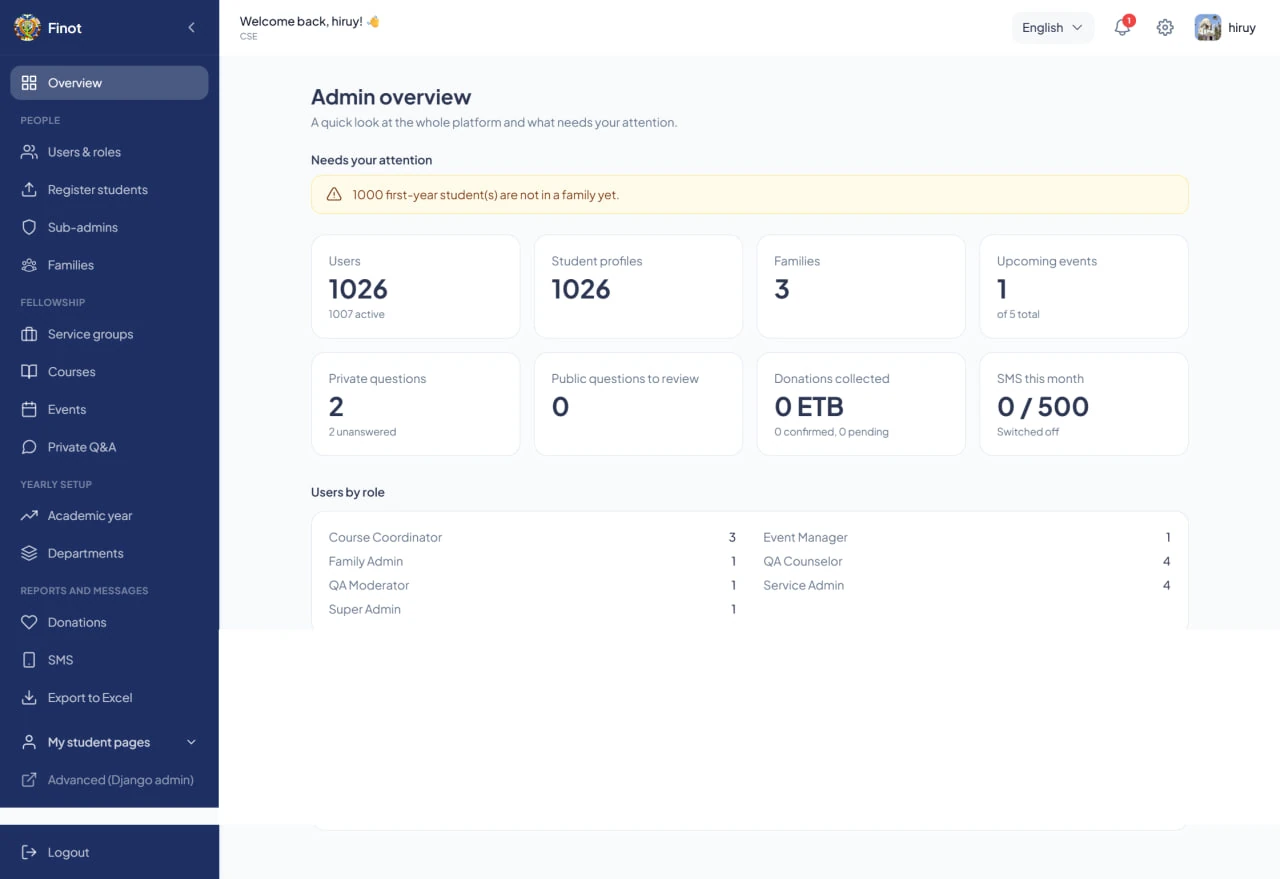
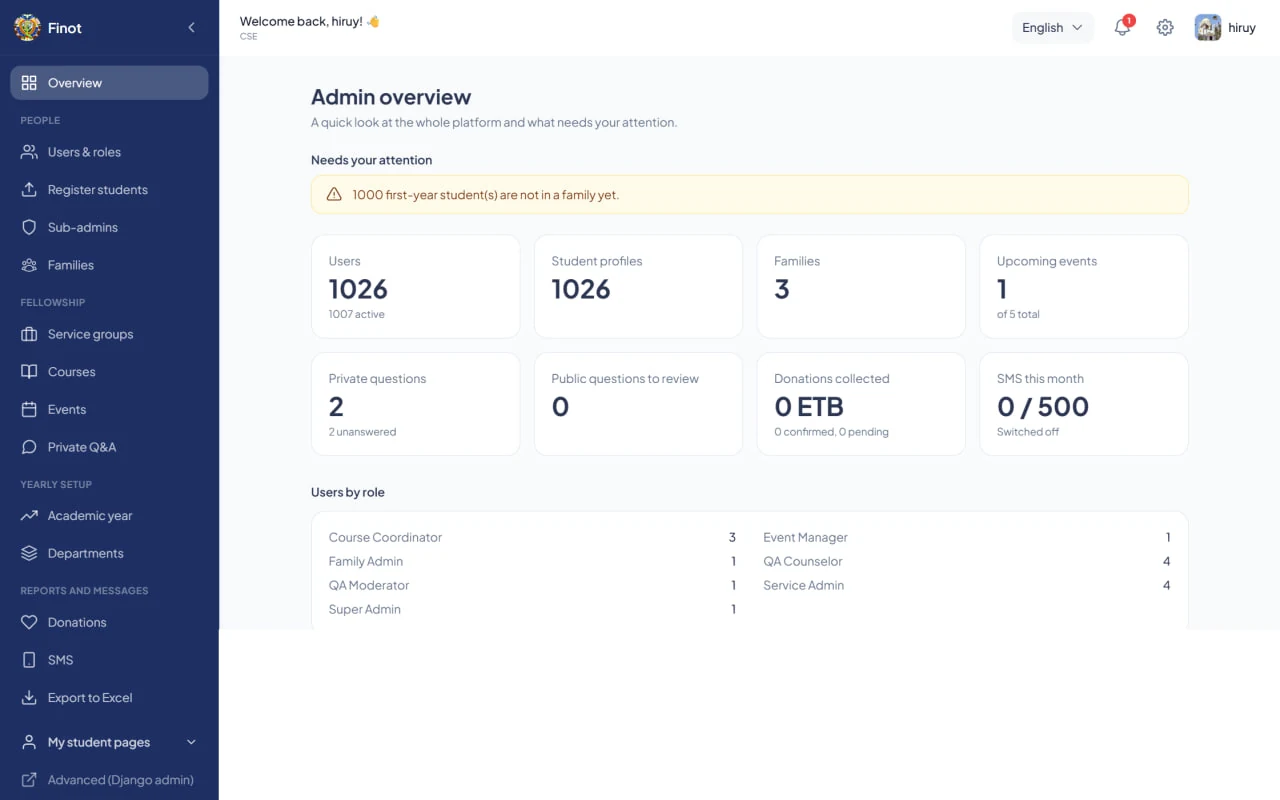
feat: Finot case study page, outcome metrics and in-app screenshots
- Add /projects/[slug] case study page (problem, approach, role, what I
  built, screens, stack); generated for projects with a caseStudy entry
- Show outcome metrics under project titles (e.g. 8 roles · 3 languages ·
  458 tests) in the carousel, dialog and case study
- Crop every screenshot to 16:10 so the carousel is even; add Finot
  student dashboard, SraHub seeker dashboard and Evangadi question list;
  drop the Amharic home shot

diff --git a/src/app/projects/[slug]/page.tsx b/src/app/projects/[slug]/page.tsx
@@ -1,0 +1,189 @@
+import type { Metadata } from "next";
+import Link from "next/link";
+import { notFound } from "next/navigation";
+import { ArrowLeft, ArrowUpRight } from "lucide-react";
+import { profile, projects } from "@/lib/data";
+import Chip from "@/components/ui/Chip";
+import Metrics from "@/components/ui/Metrics";
+import ProjectLinks from "@/components/ui/ProjectLinks";
+import Reveal from "@/components/ui/Reveal";
+import ProjectVisual from "@/components/projects/ProjectVisual";
+
+type Params = { slug: string };
+
+const withCaseStudy = () => projects.filter((p) => p.caseStudy);
+
+export const dynamicParams = false;
+
+export function generateStaticParams(): Params[] {
+  return withCaseStudy().map((p) => ({ slug: p.slug }));
+}
+
+export async function generateMetadata({
+  params,
+}: {
+  params: Promise<Params>;
+}): Promise<Metadata> {
+  const { slug } = await params;
+  const project = projects.find((p) => p.slug === slug);
+  if (!project) return {};
+  return {
+    title: `${project.title} case study — ${profile.name}`,
+    description: project.summary,
+  };
+}
+
+function Block({
+  index,
+  title,
+  children,
+}: {
+  index: string;
+  title: string;
+  children: React.ReactNode;
+}) {
+  return (
+    <Reveal as="section" className="grid gap-4 border-t border-border py-10 md:grid-cols-12 md:gap-10">
+      <h2 className="eyebrow flex items-center gap-3 text-lime md:col-span-4">
+        <span className="tabular-nums text-subtle">{index}</span>
+        <span aria-hidden className="h-px w-6 bg-lime" />
+        {title}
+      </h2>
+      <div className="text-lg leading-relaxed text-muted md:col-span-8">{children}</div>
+    </Reveal>
+  );
+}
+
+function Bullets({ items }: { items: string[] }) {
+  return (
+    <ul className="space-y-4">
+      {items.map((h) => (
+        <li key={h} className="flex gap-4">
+          <span aria-hidden className="mt-3.5 h-px w-4 shrink-0 bg-lime" />
+          {h}
+        </li>
+      ))}
+    </ul>
+  );
+}
+
+export default async function CaseStudyPage({ params }: { params: Promise<Params> }) {
+  const { slug } = await params;
+  const project = projects.find((p) => p.slug === slug);
+  if (!project?.caseStudy) notFound();
+
+  const { caseStudy } = project;
+  const screens = project.images.slice(1);
+  const sections = [
+    { title: "The problem", body: <p className="text-fg">{caseStudy.problem}</p> },
+    { title: "The approach", body: <p>{caseStudy.approach}</p> },
+    ...(project.role ? [{ title: "My role", body: <p className="text-fg">{project.role}</p> }] : []),
+    { title: "What I built", body: <Bullets items={project.highlights} /> },
+    ...(caseStudy.improve?.length
+      ? [{ title: "What I'd improve", body: <Bullets items={caseStudy.improve} /> }]
+      : []),
+  ];
+
+  return (
+    <main id="main" className="px-5 pb-20 sm:px-8">
+      <div className="mx-auto max-w-6xl">
+        {/* Top bar */}
+        <nav aria-label="Case study" className="flex items-center justify-between py-6">
+          <Link
+            href="/#work"
+            className="inline-flex items-center gap-2 rounded-full border border-border-strong px-4 py-2 text-sm text-muted transition-colors hover:border-lime hover:text-lime"
+          >
+            <ArrowLeft size={16} aria-hidden /> Back to work
+          </Link>
+          <Link href="/" className="display text-2xl">
+            Eleni<span className="text-lime">.</span>
+          </Link>
+        </nav>
+
+        {/* Header */}
+        <header className="pt-10 md:pt-16">
+          <p className="eyebrow rise text-lime">{project.tag}</p>
+          <h1 className="display rise mt-5 text-[clamp(3.5rem,10vw,8rem)]">{project.title}</h1>
+          <p className="rise mt-3 text-lg text-muted">{project.subtitle}</p>
+          <div className="rise mt-6 flex flex-wrap items-center gap-x-8 gap-y-4">
+            <Metrics items={project.metrics} className="text-base" />
+            <ProjectLinks live={project.live} code={project.code} label={project.title} />
+          </div>
+          <p className="rise mt-8 max-w-3xl text-xl leading-relaxed text-fg sm:text-2xl">
+            {project.summary}
+          </p>
+        </header>
+
+        {/* Cover */}
+        <Reveal className="mt-12 rounded-3xl border border-border bg-surface p-2 sm:p-3">
+          <div className="aspect-[16/10]">
+            <ProjectVisual project={project} sizes="(min-width: 1152px) 1120px, 95vw" priority />
+          </div>
+        </Reveal>
+
+        {/* Story */}
+        <div className="mt-16">
+          {sections.map((s, i) => (
+            <Block key={s.title} index={String(i + 1).padStart(2, "0")} title={s.title}>
+              {s.body}
+            </Block>
+          ))}
+        </div>
+
+        {/* Screens */}
+        {screens.length > 0 && (
+          <section aria-labelledby="screens-title" className="border-t border-border pt-10">
+            <h2 id="screens-title" className="eyebrow text-subtle">
+              Screens
+            </h2>
+            <div className="mt-6 grid gap-6 md:grid-cols-2">
+              {screens.map((shot) => (
+                <Reveal as="figure" key={shot.src}>
+                  <div className="aspect-[16/10]">
+                    <ProjectVisual project={project} shot={shot} sizes="(min-width: 768px) 560px, 95vw" />
+                  </div>
+                  <figcaption className="mt-3 text-sm text-subtle">{shot.alt}</figcaption>
+                </Reveal>
+              ))}
+            </div>
+          </section>
+        )}
+
+        {/* Stack */}
+        <section aria-labelledby="stack-title" className="mt-14 border-t border-border pt-10">
+          <h2 id="stack-title" className="eyebrow text-subtle">
+            Stack
+          </h2>
+          <ul className="mt-5 flex flex-wrap gap-2">
+            {project.stack.map((s) => (
+              <li key={s}>
+                <Chip>{s}</Chip>
+              </li>
+            ))}
+          </ul>
+        </section>
+
+        {/* Next steps */}
+        <div className="mt-16 flex flex-col items-start justify-between gap-6 rounded-3xl border border-border bg-surface p-8 sm:flex-row sm:items-center sm:p-10">
+          <p className="display text-3xl sm:text-4xl">
+            Want to see more of my <em className="text-lime">work</em>?
+          </p>
+          <div className="flex flex-wrap gap-3">
+            <Link
+              href="/#work"
+              className="inline-flex items-center gap-2 rounded-full bg-lime px-6 py-3 text-sm font-medium text-on-lime transition-colors hover:bg-lime-soft"
+            >
+              All projects <ArrowUpRight size={16} aria-hidden />
+            </Link>
+            <Link
+              href="/#contact"
+              className="inline-flex items-center gap-2 rounded-full border border-border-strong px-6 py-3 text-sm font-medium transition-colors hover:border-lime hover:text-lime"
+            >
+              Contact Me
+            </Link>
+          </div>
+        </div>
+      </div>
+    </main>
+  );
+}

diff --git a/src/lib/data.ts b/src/lib/data.ts
@@ -8,8 +8,17 @@ export type Project = {
   summary: string;
   highlights: string[];
   stack: string[];
+  /** Short outcome numbers shown under the title, e.g. "458 tests". */
+  metrics?: string[];
   /** What I personally did on the project. */
   role?: string;
+  /** Long-form case study at /projects/[slug]. */
+  caseStudy?: {
+    problem: string;
+    approach: string;
+    /** Things I'd change next time; the section is hidden until filled in. */
+    improve?: string[];
+  };
   live: string | null;
   code: string | null;
   images: Shot[];
@@ -96,7 +105,14 @@ export const projects: Project[] = [
     tag: "2nd Place — AGT-HUB Hackathon",
     summary:
       "A platform that replaces paper lists and spreadsheets for a student fellowship: registration, courses, attendance, mentorship families, private counseling and donations, in English, Amharic and Afaan Oromoo.",
+    metrics: ["8 roles", "3 languages", "458 tests"],
     role: "Full-stack developer. Built the Django REST API, the React and TypeScript interface, the database design, Docker setup, tests and CI.",
+    caseStudy: {
+      problem:
+        "The student fellowship ran registration, courses, attendance, mentorship families, private counseling and donations on paper lists and spreadsheets.",
+      approach:
+        "One platform for the whole fellowship, built in a 2-week hackathon and available in English, Amharic and Afaan Oromoo. A Django REST API enforces every permission on the server, and a React and TypeScript interface serves each of the 8 roles.",
+    },
     highlights: [
       "Role-based access for 8 roles, enforced on the server, with JWT authentication and rate limiting.",
       "Bulk registration from Excel with printable login slips, plus undo for imports, family distribution and yearly rollover.",
@@ -107,9 +123,9 @@ export const projects: Project[] = [
     live: "https://finot.pages.dev",
     code: "https://github.com/AGT-HUB-ASTU-Gibi-Gubaie/hackathon-2026-HIRUY",
     images: [
-      { src: "/projects/finot-home.webp", alt: "Finot home page in English" },
+      { src: "/projects/finot-home.webp", alt: "Finot home page" },
+      { src: "/projects/finot-student.webp", alt: "Finot student dashboard with events, attendance and family" },
       { src: "/projects/finot-admin.webp", alt: "Finot admin overview with users, families, events and donations" },
-      { src: "/projects/finot-home-amharic.webp", alt: "Finot home page in Amharic" },
     ],
   },
   {
@@ -126,7 +142,11 @@ export const projects: Project[] = [
     stack: ["Next.js", "Redux", "Go"],
     live: "https://srahub-web.firaolkef.workers.dev/",
     code: "https://github.com/A2SV-ASTU/srahub",
-    images: [{ src: "/projects/srahub-home.webp", alt: "SraHub home page" }],
+    metrics: ["17 contributors", "Live in production"],
+    images: [
+      { src: "/projects/srahub-home.webp", alt: "SraHub home page" },
+      { src: "/projects/srahub-dashboard.webp", alt: "SraHub job seeker dashboard with open positions" },
+    ],
   },
   {
     slug: "evangadi-forum",
@@ -143,7 +163,7 @@ export const projects: Project[] = [
     stack: ["React", "Tailwind CSS", "Node.js", "Express", "MySQL"],
     live: "https://evangadi-forum-bci5-pi.vercel.app/login",
     code: "https://github.com/Eleni-tadese/evangadi-forum",
-    images: [],
+    images: [{ src: "/projects/evangadi-questions.webp", alt: "Evangadi Forum question list" }],
   },
   {
     slug: "job-match-tracker",

diff --git a/src/components/projects/CaseStudyDialog.tsx b/src/components/projects/CaseStudyDialog.tsx
@@ -1,9 +1,11 @@
 "use client";
 
 import { useEffect, useRef, useState } from "react";
-import { ChevronLeft, ChevronRight, X } from "lucide-react";
+import Link from "next/link";
+import { ArrowUpRight, ChevronLeft, ChevronRight, X } from "lucide-react";
 import type { Project } from "@/lib/data";
 import Chip from "../ui/Chip";
+import Metrics from "../ui/Metrics";
 import ProjectLinks from "../ui/ProjectLinks";
 import ProjectVisual from "./ProjectVisual";
 
@@ -62,6 +64,15 @@ export default function CaseStudyDialog({
           {project.title}
         </h3>
         <p className="mt-2 text-muted">{project.subtitle}</p>
+        <Metrics items={project.metrics} className="mt-4" />
+        {project.caseStudy && (
+          <Link
+            href={`/projects/${project.slug}`}
+            className="mt-6 inline-flex items-center gap-2 rounded-full bg-lime px-5 py-2.5 text-sm font-medium text-on-lime transition-colors hover:bg-lime-soft"
+          >
+            Read the full case study <ArrowUpRight size={15} aria-hidden />
+          </Link>
+        )}
 
         {project.video && (
           <div className="mt-8">

diff --git a/src/components/projects/ProjectCarousel.tsx b/src/components/projects/ProjectCarousel.tsx
@@ -4,6 +4,7 @@ import { useCallback, useEffect, useRef, useState } from "react";
 import { ArrowLeft, ArrowRight, ArrowUpRight, Pause, Play } from "lucide-react";
 import type { Project } from "@/lib/data";
 import Chip from "../ui/Chip";
+import Metrics from "../ui/Metrics";
 import ProjectLinks from "../ui/ProjectLinks";
 import ProjectVisual from "./ProjectVisual";
 import CaseStudyDialog from "./CaseStudyDialog";
@@ -248,6 +249,7 @@ export default function ProjectCarousel({ projects }: { projects: Project[] }) {
           <p className="eyebrow text-lime">{current.tag}</p>
           <h3 className="display mt-3 text-5xl sm:text-6xl">{current.title}</h3>
           <p className="mt-1 text-subtle">{current.subtitle}</p>
+          <Metrics items={current.metrics} className="mt-4" />
           <p className="mt-5 leading-relaxed text-muted">{current.summary}</p>
         </div>
         <div className="flex flex-col gap-6 md:col-span-5 md:items-start md:pt-8">

diff --git a/src/components/ui/Metrics.tsx b/src/components/ui/Metrics.tsx
@@ -1,0 +1,27 @@
+/** Outcome numbers under a project title, e.g. "8 roles · 3 languages · 458 tests". */
+export default function Metrics({
+  items,
+  className = "",
+}: {
+  items?: string[];
+  className?: string;
+}) {
+  if (!items?.length) return null;
+  return (
+    <ul
+      aria-label="Key outcomes"
+      className={`flex flex-wrap items-center gap-x-3 gap-y-1 text-sm font-medium text-lime ${className}`}
+    >
+      {items.map((m, i) => (
+        <li key={m} className="flex items-center gap-3">
+          {i > 0 && (
+            <span aria-hidden className="text-subtle">
+              ·
+            </span>
+          )}
+          {m}
+        </li>
+      ))}
+    </ul>
+  );
+}
